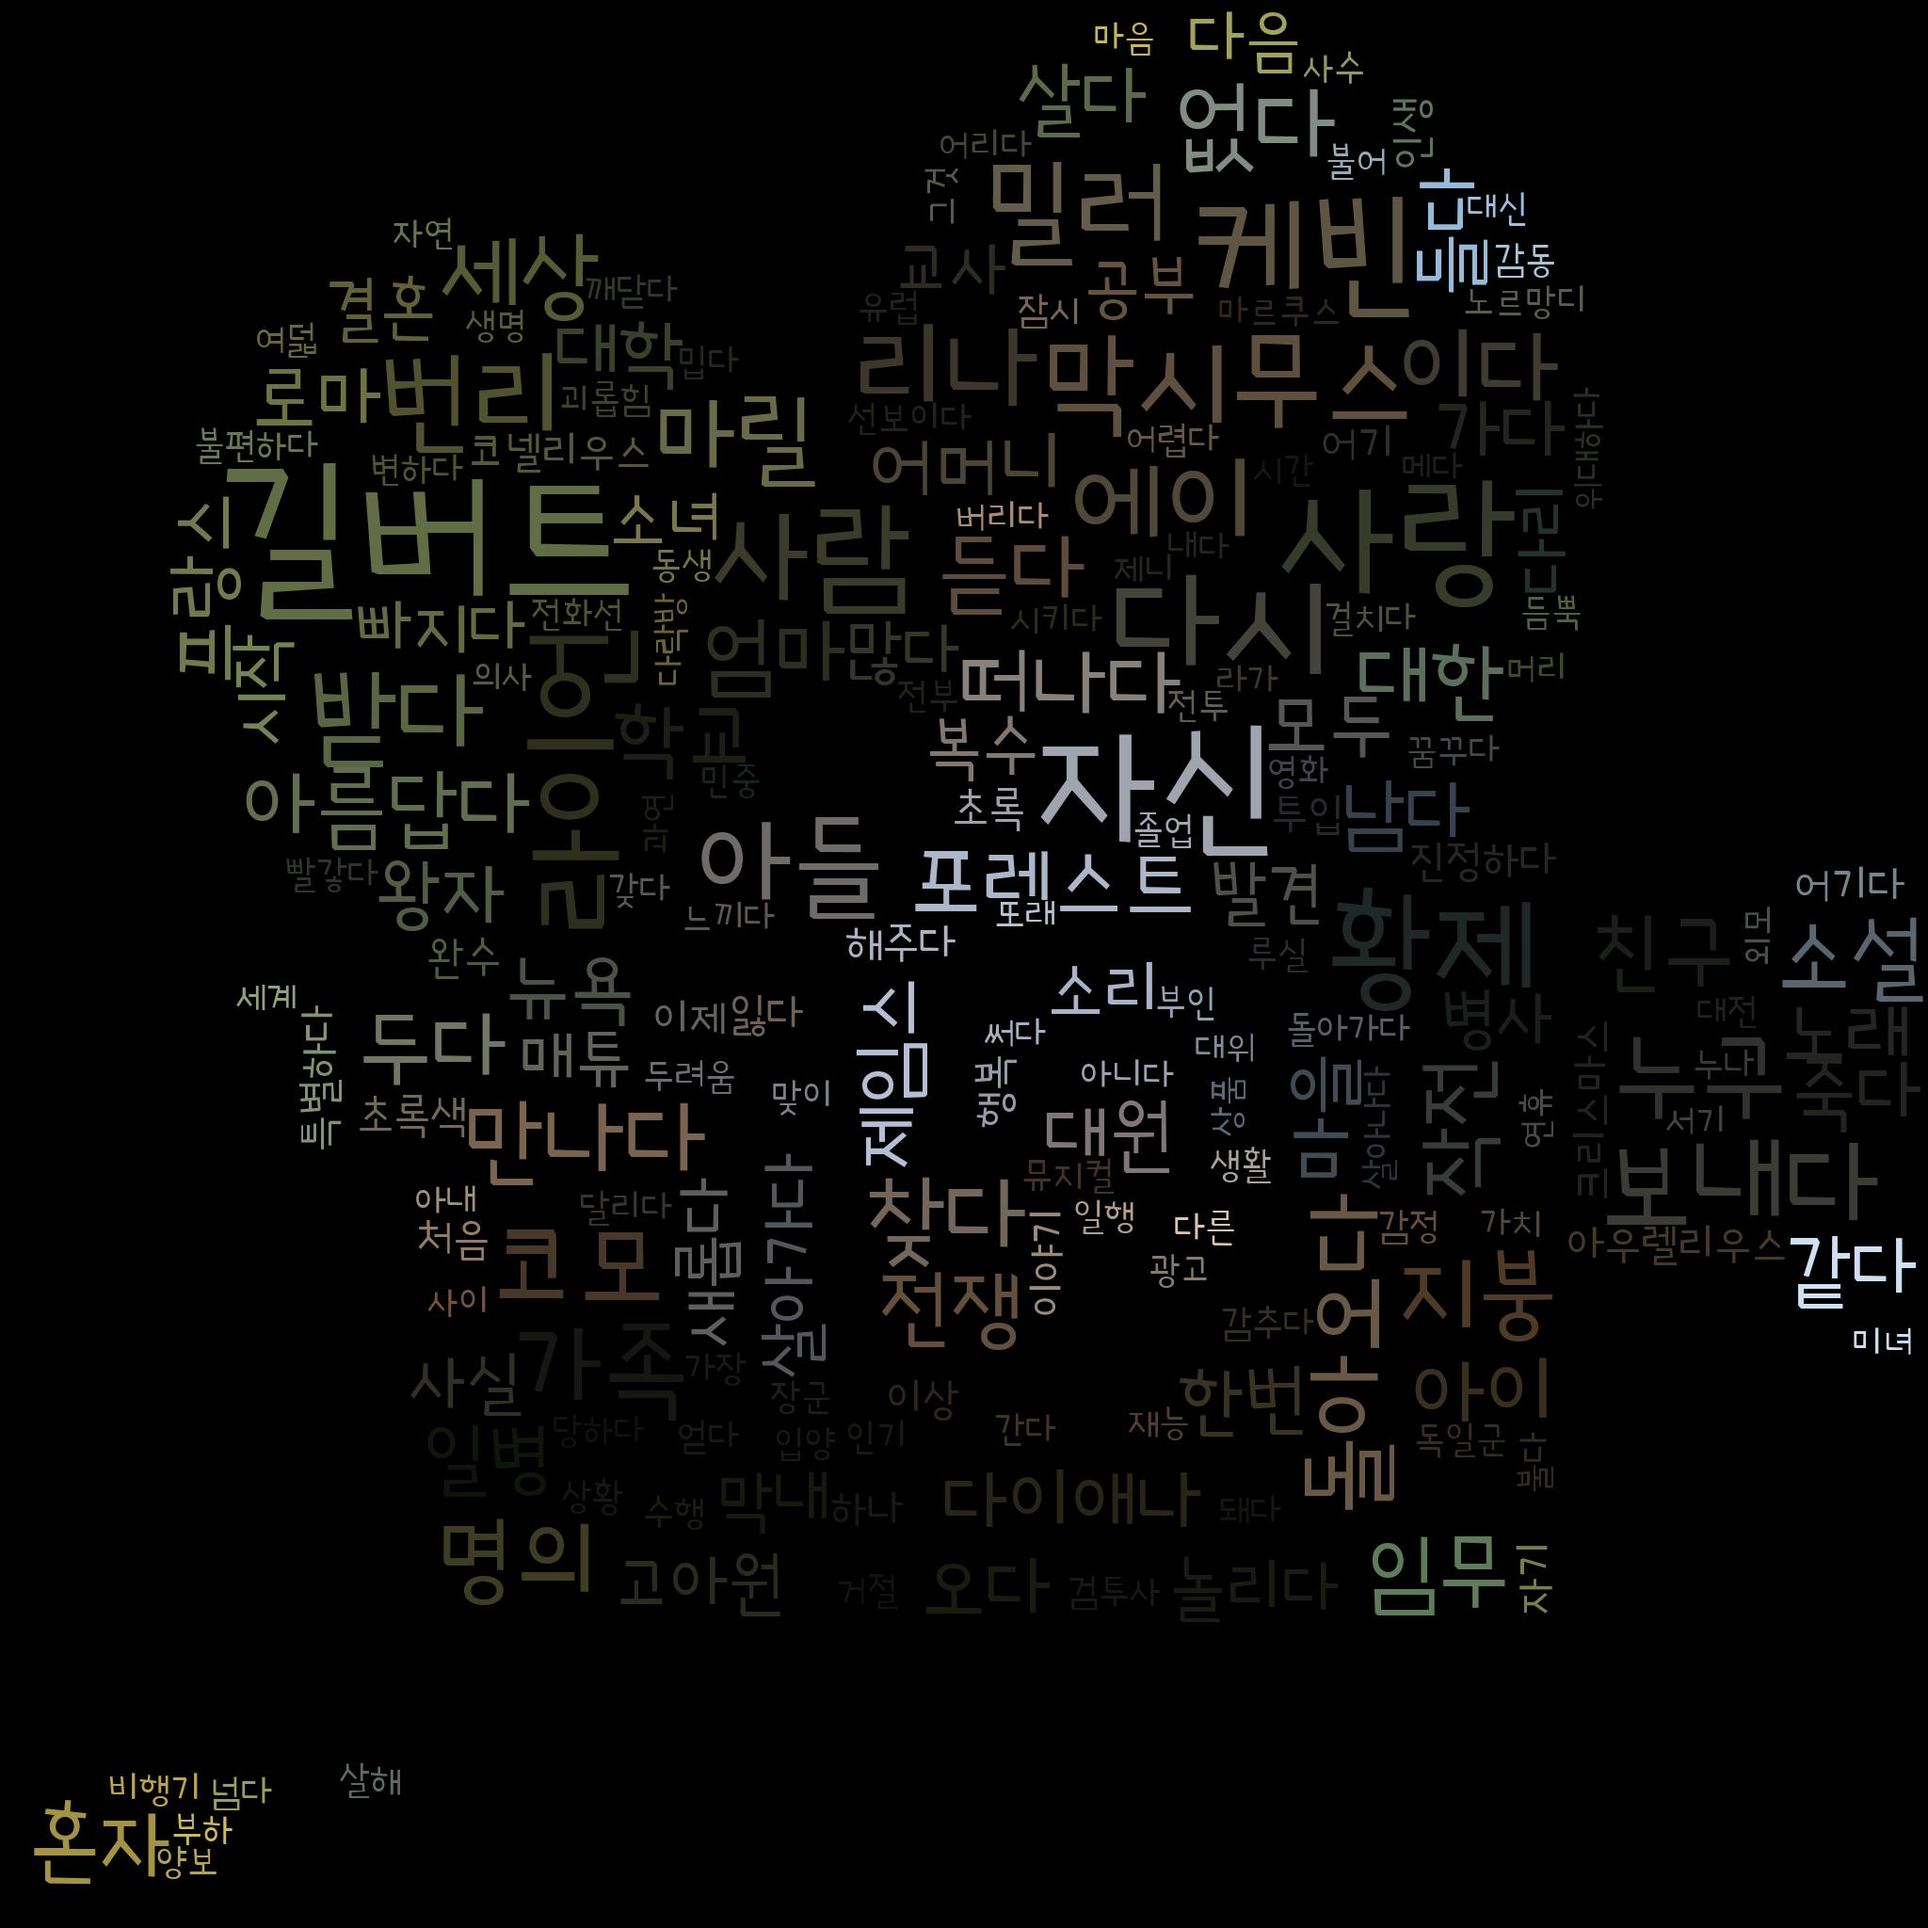
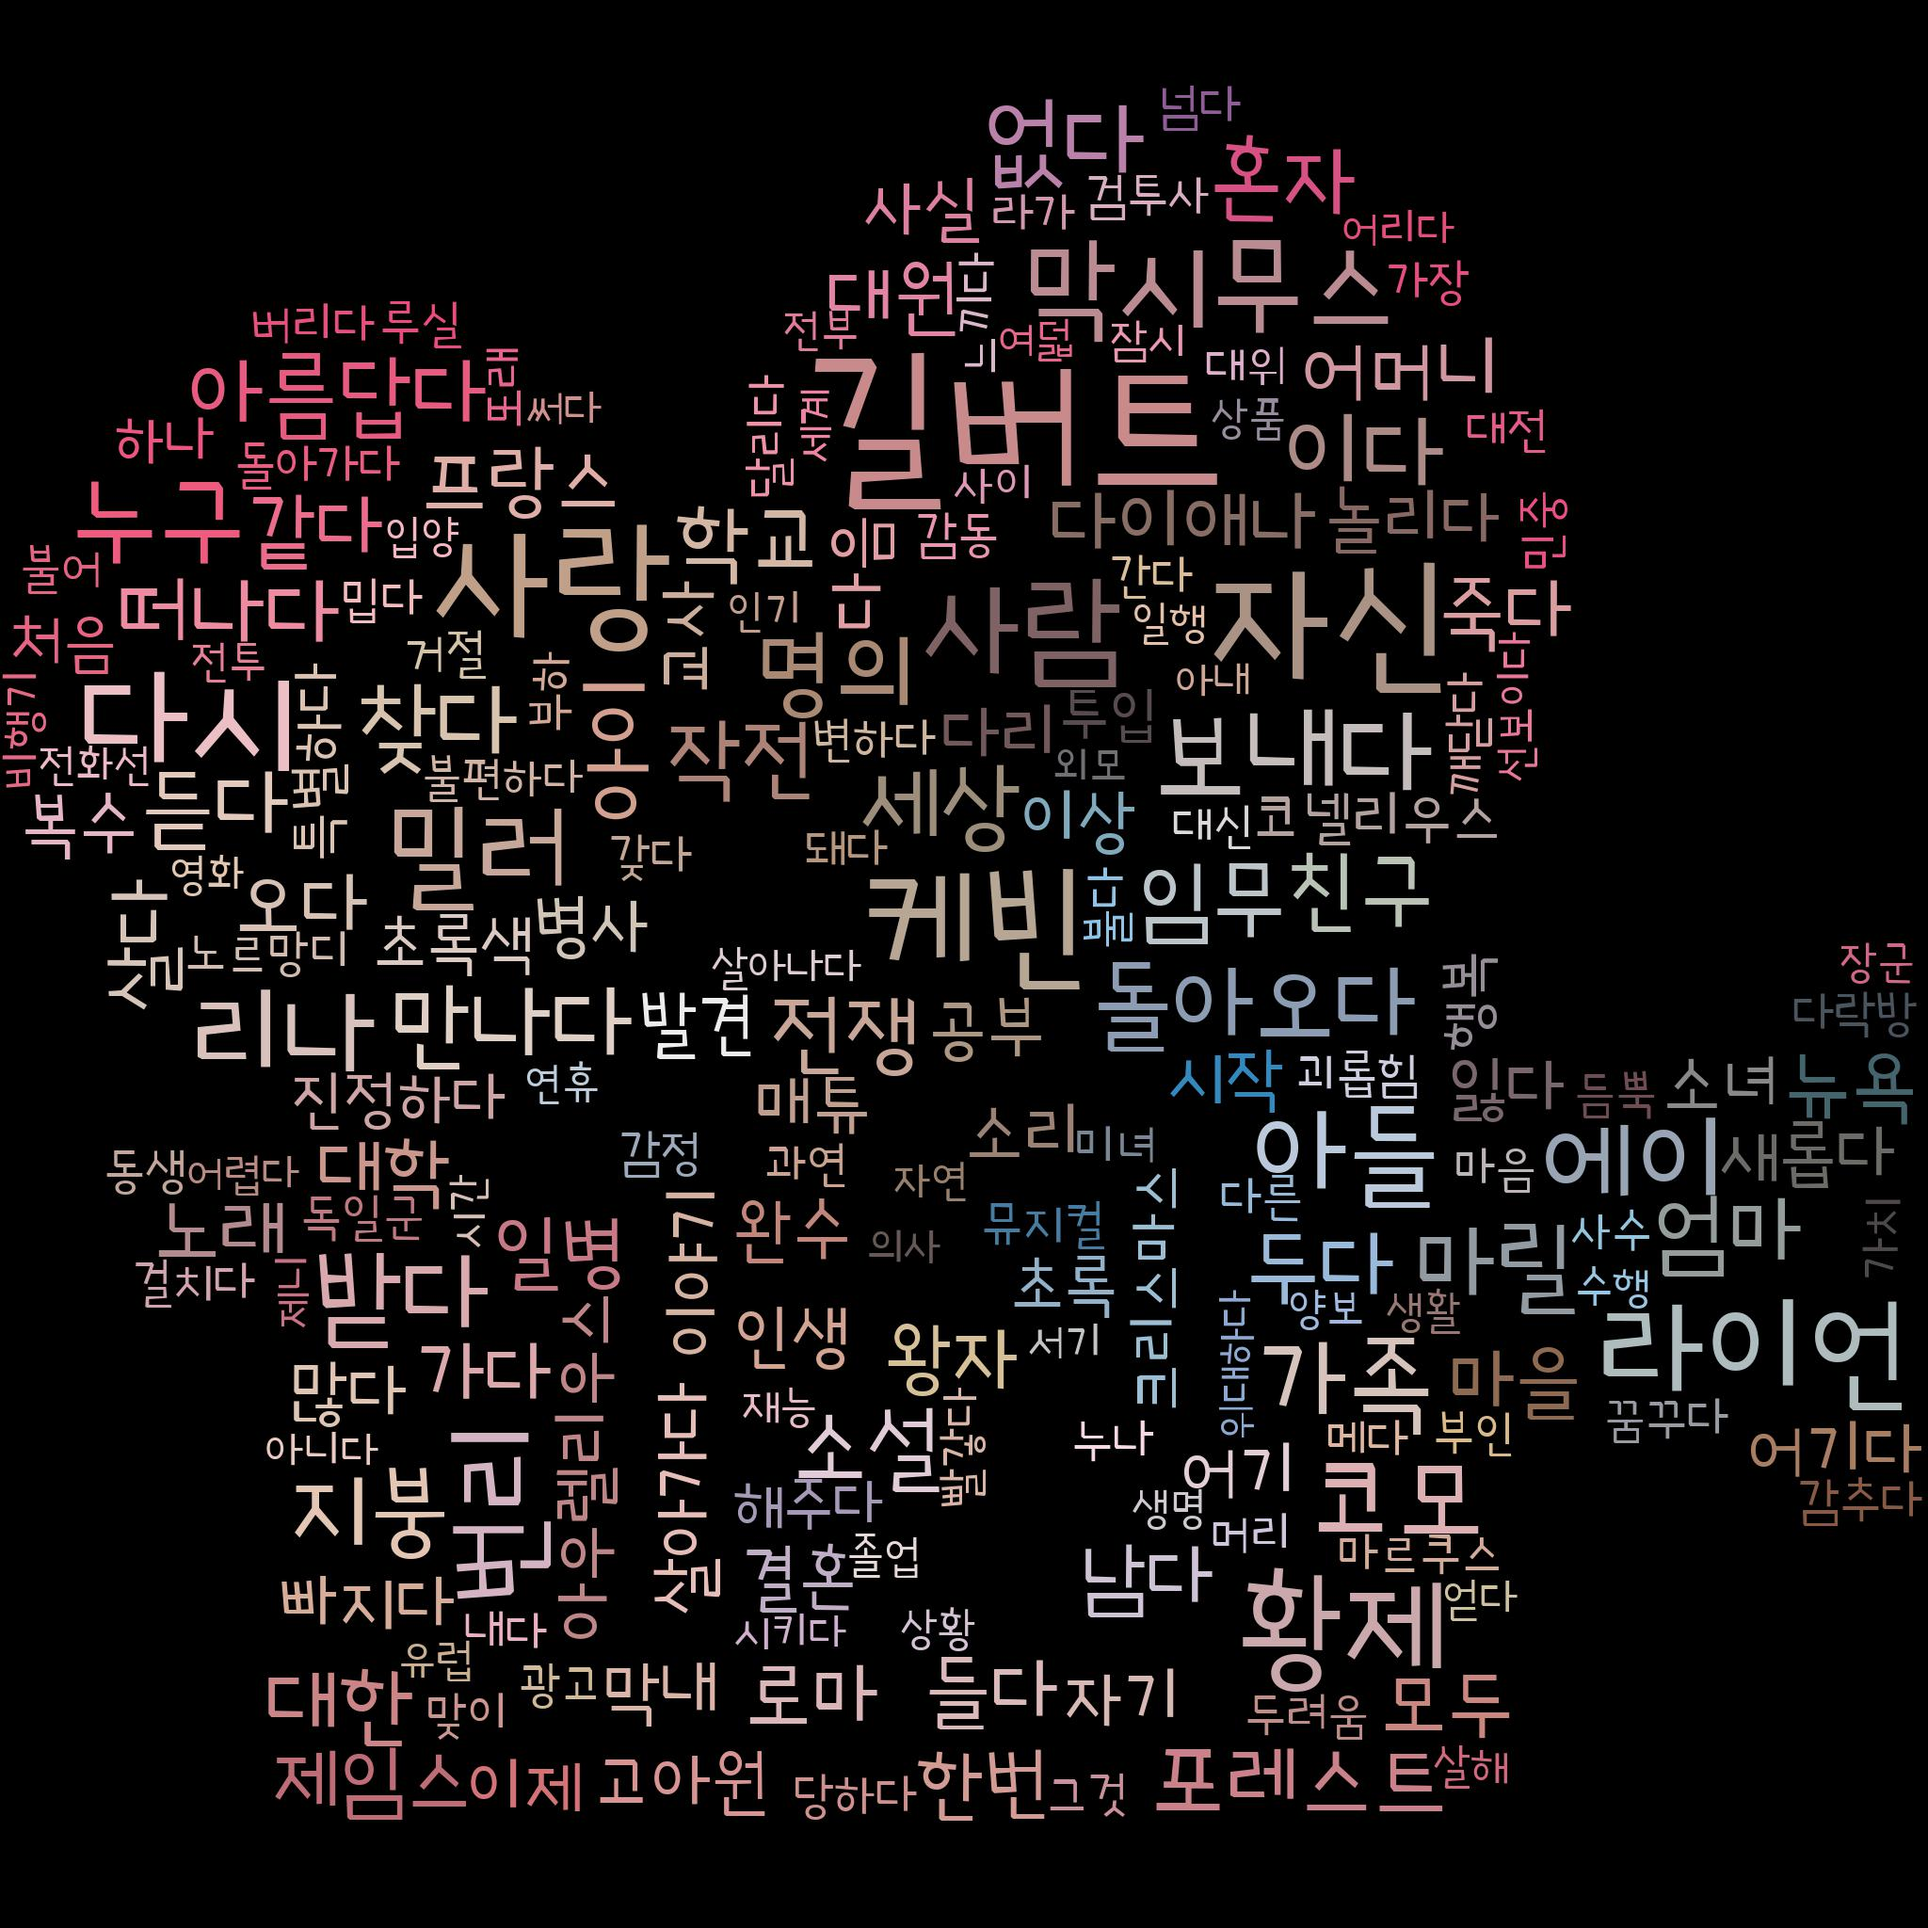
최종 wordcloud

Changed region(s): [[0.0, 0.0, 1.0, 0.9688]]

diff --git a/data_analysis/analysis.py b/data_analysis/analysis.py
@@ -67,7 +67,7 @@ def drawWordCloud(freq):
     set_mbti = data[mbti_movie]
     top10 = set_mbti.nlargest(10, 'rating', keep='all')
     
-    top = top10.iloc[0]['image']
+    # top = top10.iloc[0]['image']
     # curl 요청
     # os.system("curl " + top + " > src/poster" + mbti_key[i] + ".jpg")
     # print(top)
@@ -98,7 +98,7 @@ def drawWordCloud(freq):
       # print(tfidf.shape)
 
     # draw wordcloud & save img
-    img = Image.open('src/poster' + mbti_key[i] + '.jpg')
+    img = Image.open('src/posterESFP.jpg')
     img = img.resize((2048, 2048))
     img_array = np.array(img)
     mask = Image.open('src/6.jpg')
